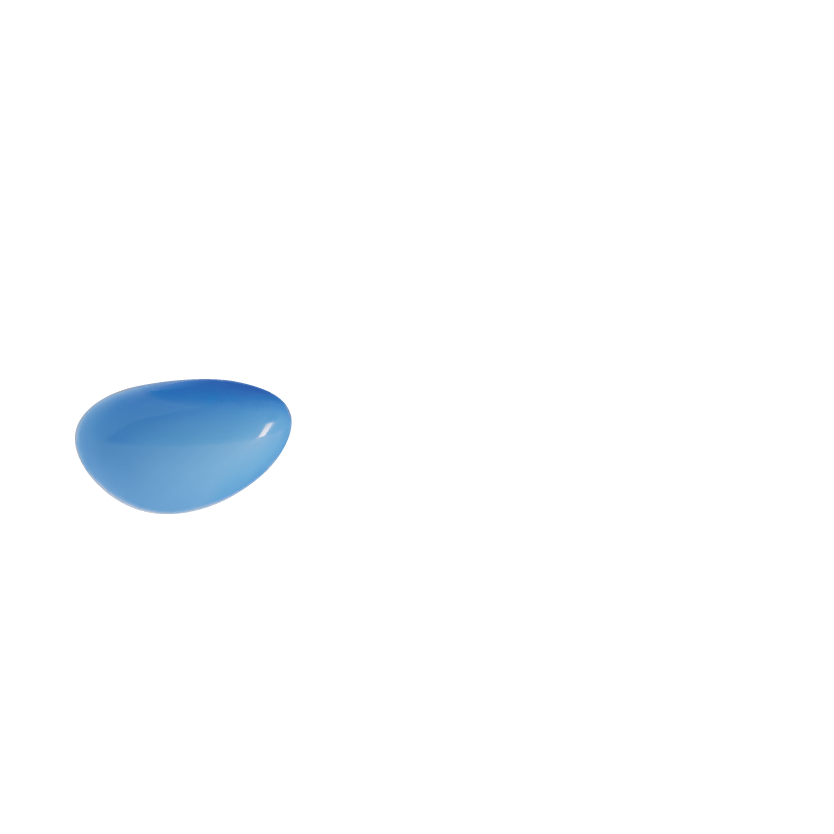
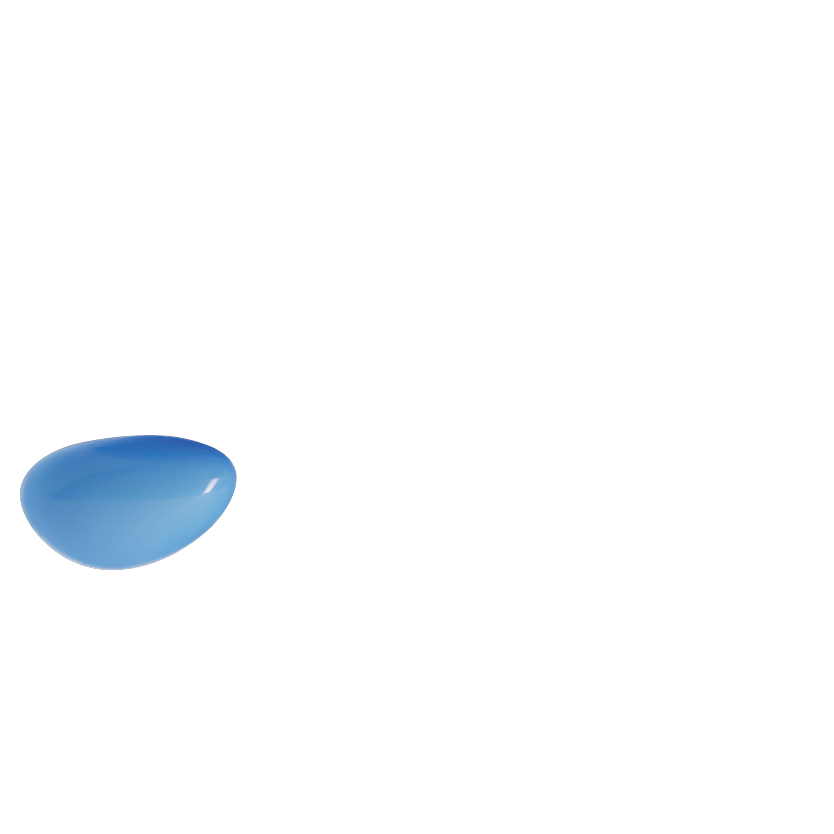
fix(mascot): adjust body and hand spacing relative to head and completely remove face layer

Changed region(s): [[0.0, 0.4365, 0.3741, 0.6859]]

diff --git a/src/Components/AI/SheypoorMascot.jsx b/src/Components/AI/SheypoorMascot.jsx
@@ -218,11 +218,11 @@ export default function SheypoorMascot({ onClick, isOpen, isProcessing }) {
 
         {/* Mascot Body Canvas Container (84px width, maintaining aspect ratio) */}
         <div className="relative w-20 h-20 tablet:w-22 tablet:h-22 select-none">
-          {/* Base Layer: Body without hands */}
+          {/* Base Layer: Body */}
           <motion.img
-            src="/AI-MASCAT/bodyNohand.png"
+            src="/AI-MASCAT/body.png"
             alt="Body"
-            className="absolute inset-0 w-full h-full object-contain pointer-events-none drop-shadow-md"
+            className="absolute inset-0 w-full h-full object-contain pointer-events-none drop-shadow-md origin-[50%_65%]"
             animate={{
               y: isProcessing ? [0, -2, 0] : [0, -3, 0],
             }}
@@ -237,7 +237,7 @@ export default function SheypoorMascot({ onClick, isOpen, isProcessing }) {
           <motion.img
             src="/AI-MASCAT/leftHand.png"
             alt="Left Hand"
-            className="absolute inset-0 w-full h-full object-contain pointer-events-none drop-shadow-sm"
+            className="absolute inset-0 w-full h-full object-contain pointer-events-none drop-shadow-sm origin-[20%_60%]"
             animate={{
               y: isProcessing ? [-2, -6, -2] : isHovered ? [-1, 2, -1] : [0, -3, 0],
               rotate: isProcessing ? [0, -10, 0] : isHovered ? [0, -6, 0] : [0, 2, 0],
@@ -253,7 +253,7 @@ export default function SheypoorMascot({ onClick, isOpen, isProcessing }) {
           <motion.img
             src="/AI-MASCAT/rightHand.png"
             alt="Right Hand"
-            className="absolute inset-0 w-full h-full object-contain pointer-events-none drop-shadow-sm origin-[75%_65%]"
+            className="absolute inset-0 w-full h-full object-contain pointer-events-none drop-shadow-sm origin-[80%_60%]"
             animate={{
               y: isProcessing
                 ? [-3, -8, -3] // Raising hand towards chin while thinking
@@ -270,23 +270,6 @@ export default function SheypoorMascot({ onClick, isOpen, isProcessing }) {
               duration: isProcessing ? 2.5 : isHovered ? 0.9 : 2.5,
               repeat: Infinity,
               ease: "easeInOut",
-            }}
-          />
-
-          {/* Face Plate (White) */}
-          <motion.img
-            src="/AI-MASCAT/face.png"
-            alt="Face"
-            className="absolute inset-0 w-full h-full object-contain pointer-events-none"
-            animate={{
-              x: mouseOffset.x * 0.5,
-              y: (isProcessing ? -4 : 0) + mouseOffset.y * 0.5 + (isHovered ? -2 : 0),
-              rotate: isProcessing ? -6 : mouseOffset.x * 0.6,
-            }}
-            transition={{
-              type: "spring",
-              stiffness: 180,
-              damping: 14,
             }}
           />
 

diff --git a/src/pages/MascotLab.jsx b/src/pages/MascotLab.jsx
@@ -31,7 +31,6 @@ export default function MascotLab() {
     body: true,
     leftHand: true,
     rightHand: true,
-    face: true,
     head: true,
     hat: true,
     leftEye: true,
@@ -366,26 +365,7 @@ const mascotConfig = ${JSON.stringify(tweaks, null, 2)};`;
                 />
               )}
 
-              {/* 4. Face Plate */}
-              {visibleLayers.face && (
-                <motion.img
-                  src="/AI-MASCAT/face.png"
-                  alt="Face"
-                  className="absolute inset-0 w-full h-full object-contain pointer-events-none"
-                  animate={{
-                    x: mouseOffset.x * 0.5,
-                    y:
-                      (activeVariant === "thinking"
-                        ? -4
-                        : activeVariant === "sleeping"
-                        ? 3
-                        : 0) +
-                      mouseOffset.y * 0.5,
-                    rotate: activeVariant === "thinking" ? -8 : mouseOffset.x * 0.6,
-                  }}
-                  transition={{ type: "spring", stiffness: 180, damping: 14 }}
-                />
-              )}
+
 
               {/* 5. Left Eye */}
               {visibleLayers.leftEye && (
